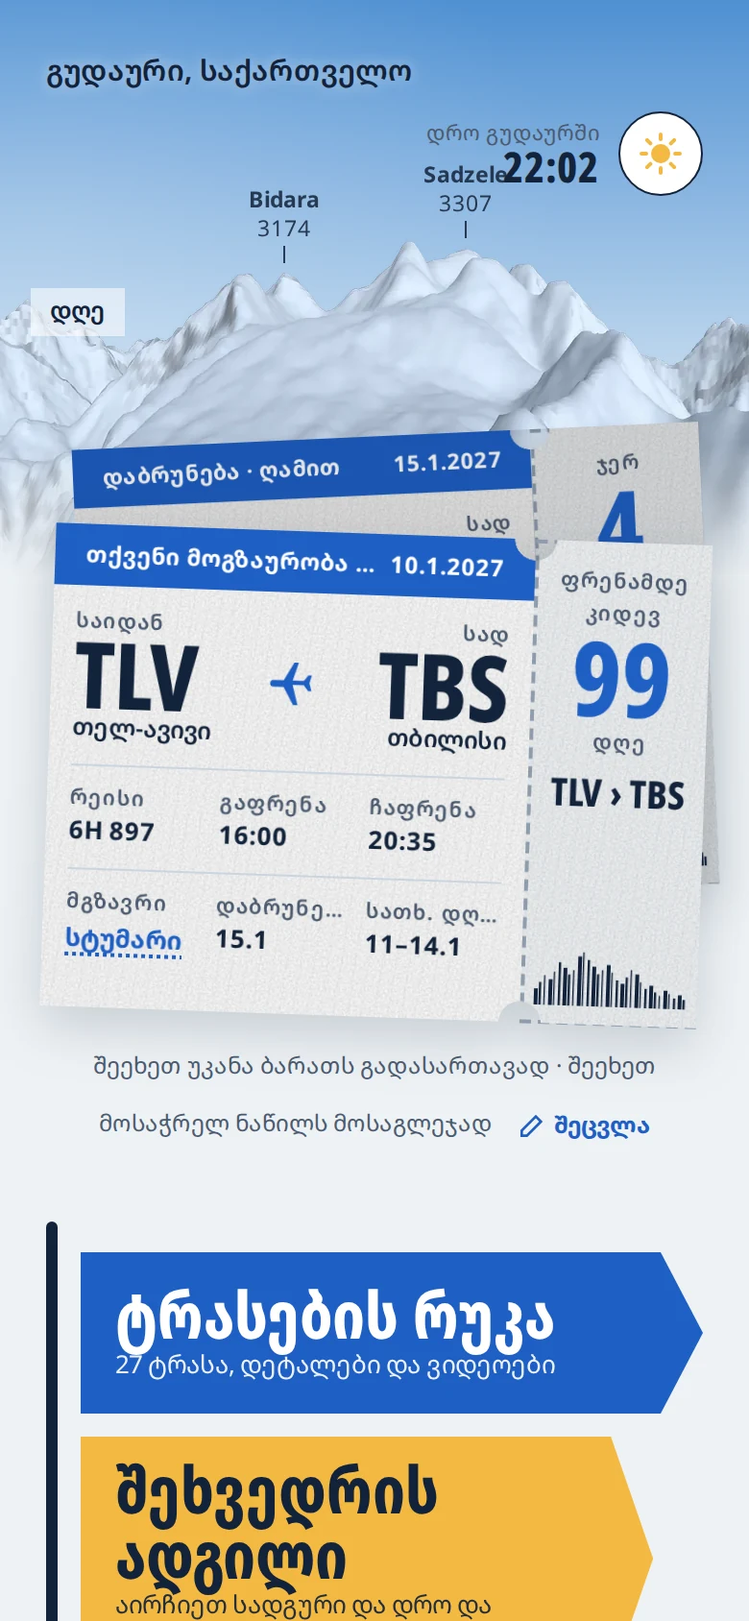
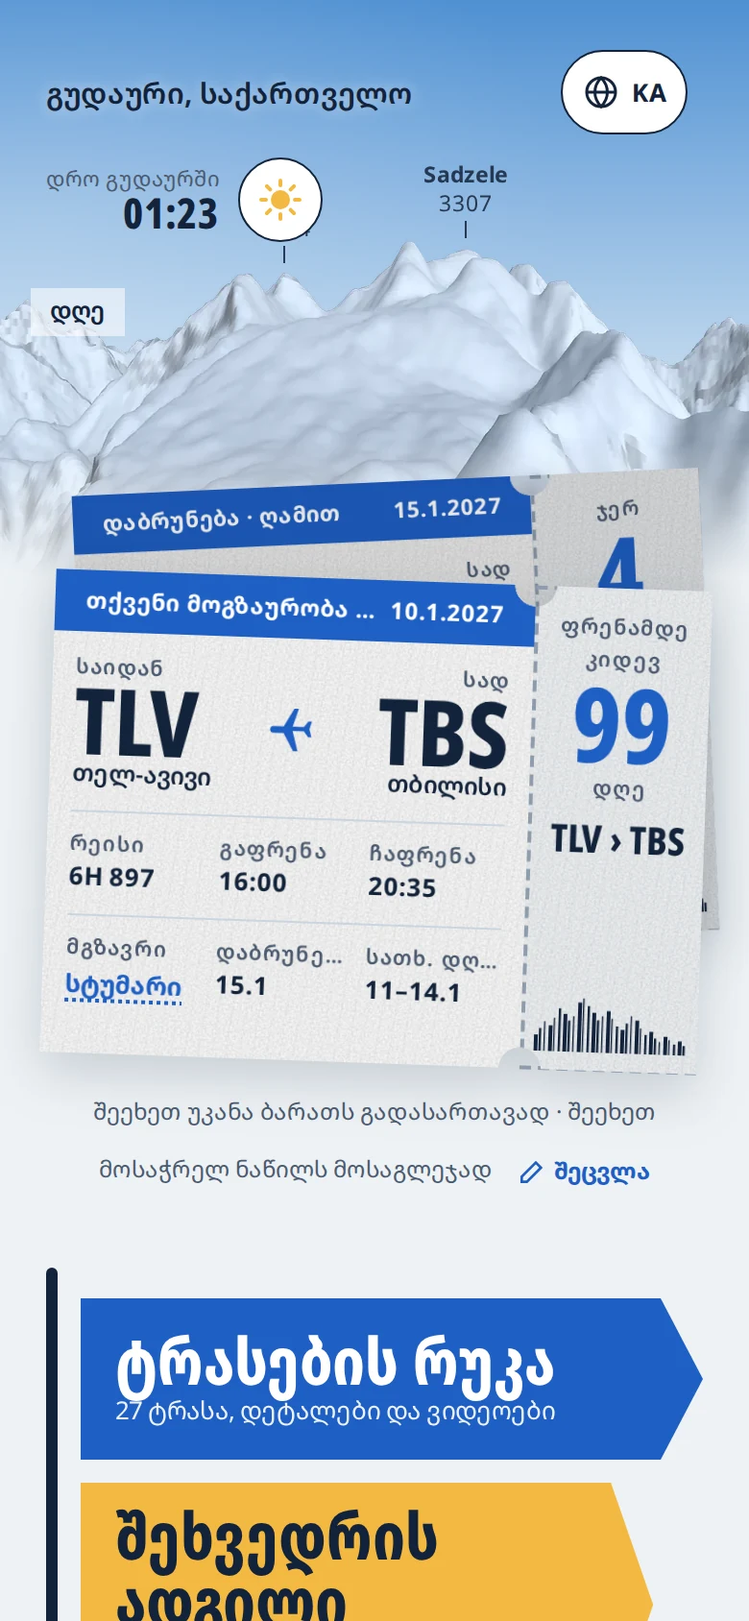
Canvas round 16: the pairs again against main with the language button, and three pairs for it
The 'before' side is now main with the language button (decision 48), so every pair
compares like with like; only the 28 shots that changed were uploaded again. New row:
the language button inside round 16 (the home row in Georgian on a phone, a page header
in Georgian, the back arrow in English); the top bar pair for guests without a trip was
dropped, since the language session fixed that on main too. Decide card item; STATUS.

Claude-Session: https://claude.ai/code/session_011G2wvmFpKYzoT1gYcd9vmk

diff --git a/design/canvas/project/R16-0-Decide.dc.html b/design/canvas/project/R16-0-Decide.dc.html
@@ -12,9 +12,9 @@
 body{margin:0;background:#EEF2F5}
 </style>
 </helmet>
-<div style="width: 560px; height: 1560px; box-sizing: border-box; padding: 28px; background: #FFFFFF; color: #13233A; font-family: 'IBM Plex Sans Hebrew', system-ui, sans-serif; direction: rtl; border-top: 8px solid #1F5FC4"><h1 style="margin: 0; font-family: Karantina, 'Arial Narrow', sans-serif; font-size: 52px; line-height: 1">מה לאשר בסבב 16</h1><p style="margin: 8px 0 16px; font-size: 14.5px; line-height: 1.55; color: #4B5A6F">ביקשת לעבור על כל העיצוב באתר, עמוד אחרי עמוד ורכיב אחרי רכיב, ולתקן. עברתי על כל העמודים והמצבים, בטלפון ובמחשב, ביום ובלילה ובארבע השפות, ונמצאו כ-60 בעיות. כאן 50 זוגות של לפני ואחרי מהאתר האמיתי, מסודרים לפי עמוד. הכל בענף, ונכנס לאתר רק אחרי שתאשר. בתוך השפה העיצובית הקיימת, בלי שינוי בכיוון.</p><ol style="margin: 0; padding: 0; list-style: none"><li style="display: flex; flex-direction: column; gap: 2px; padding: 10px 0; border-top: 1px solid #CBD5DF"><b style="font-size: 16px">1. השלג</b><span style="font-size: 14px; line-height: 1.55; color: #4B5A6F">רכיב אחד לכל השלטים והכרטיסים באתר ובדף הפרטיות (שלט "ההר עוד ישן", שלטי הרכבלים, המשחקים, הכרטיסים של הכניסה והקבוצה). השלג מצויר לפי הרוחב האמיתי של כל שלט, יושב על הקצה ומכסה את המסגרת, נגמר איפה שהחץ מתחיל ומתהפך עם השפה, ובלילה באור ירח. הצורה והצבעים כמו בשלט המושלג שאישרת בסבב 3 (S3).</span></li><li style="display: flex; flex-direction: column; gap: 2px; padding: 10px 0; border-top: 1px solid #CBD5DF"><b style="font-size: 16px">2. לוח העונה</b><span style="font-size: 14px; line-height: 1.55; color: #4B5A6F">הלוח בדף הבית אמר תמיד "ההר עוד ישן... העונה נפתחת בדרך כלל בדצמבר", גם בינואר וגם כשהרכבלים פתוחים. עכשיו הוא כמו השלטים והפס במפה (S1, S3): עד דצמבר ההר ישן, בעונה בלי דיווח "אין מידע עדכני", ועם דיווח עדכני השלג יורד, הפס למעלה ירוק ונכתב כמה רכבלים פתוחים ומתי עודכן. כך זה גם באפליקציה (סשן האנדרואיד, 3.10.2026), כדי ששתיהן ייראו אותו דבר. הלוח עדיין מופיע רק למי שעוד אין לו טיול (החלטה 46).</span></li><li style="display: flex; flex-direction: column; gap: 2px; padding: 10px 0; border-top: 1px solid #CBD5DF"><b style="font-size: 16px">3. הלילה</b><span style="font-size: 14px; line-height: 1.55; color: #4B5A6F">בלילה הכחול, הירוק והאדום בהירים, ולכן הטקסט עליהם כהה, כמו בשלטים במפה. עד היום היה שם לבן, שלא קריא (ניגודיות 2.8, ובפסים על הדיו 1.15). בסריקה של כל העמודים, 35 ממצאי ניגודיות ירדו ל-6: שני "???" בכרטיס הריק (קישוט), ושלושה גבוליים (4.4 במקום 4.5) בירוק ובאדום של המסלולים.</span></li><li style="display: flex; flex-direction: column; gap: 2px; padding: 10px 0; border-top: 1px solid #CBD5DF"><b style="font-size: 16px">4. בלי גלילה הצידה</b><span style="font-size: 14px; line-height: 1.55; color: #4B5A6F">נבדק בשמונה רוחבים (320 עד 1024) ובארבע השפות. הסרגל העליון במחשב צר מוותר על דברים לפי הסדר; בדף הפרטיות, בטופס הטיול ובכותרות בגאורגית הכל נכנס.</span></li><li style="display: flex; flex-direction: column; gap: 2px; padding: 10px 0; border-top: 1px solid #CBD5DF"><b style="font-size: 16px">5. נקודת המפגש</b><span style="font-size: 14px; line-height: 1.55; color: #4B5A6F">"איך מגיעים" נקרא עכשיו בכיוון הדף, מהמקום שלך אל הנקודה הצהובה, עם החצים של השלטים (היום הוא נקרא משמאל לימין גם בעברית). ימי השבוע בגאורגית מגיעים מהאתר עצמו, כי הדפדפן לא מכיר אותם ונפל לעברית.</span></li><li style="display: flex; flex-direction: column; gap: 2px; padding: 10px 0; border-top: 1px solid #CBD5DF"><b style="font-size: 16px">6. נגישות</b><span style="font-size: 14px; line-height: 1.55; color: #4B5A6F">יעדי מגע של 44 בכל מקום שנמצא קטן מזה. לשוניות הקבוצה עובדות עם המקלדת ועם קורא מסך, השלט Kobi Pass נגיש מהמקלדת, ולכפתור מחיקת מפגש יש שם נכון.</span></li><li style="display: flex; flex-direction: column; gap: 2px; padding: 10px 0; border-top: 1px solid #CBD5DF"><b style="font-size: 16px">7. אפל</b><span style="font-size: 14px; line-height: 1.55; color: #4B5A6F">הכפתור של אפל אומר "בקרוב" (מקווקו, כמו כל מה שעוד לא קיים באתר), עד שיהיה חשבון מפתח של אפל.</span></li><li style="display: flex; flex-direction: column; gap: 2px; padding: 10px 0; border-top: 1px solid #CBD5DF"><b style="font-size: 16px">8. טקסטים</b><span style="font-size: 14px; line-height: 1.55; color: #4B5A6F">שישה שכבר לא נכונים או מבלבלים, בארבע השפות:<br><b>בנקודת המפגש, מתחת לשיתוף:</b> <s>בלי מסד נתונים ובלי הרשמה: המקום, היום והשעה נמצאים בתוך הקישור עצמו.</s> ← הקישור עובד בלי הרשמה: המקום, היום והשעה נמצאים בתוך הקישור עצמו.<br><b>כרטיס המפגש, בכותרת:</b> <s>החבר׳ה · גודאורי 2027</s> ← גודאורי 2027<br><b>עמוד המשחקים:</b> <s>השיאים נשמרים רק בטלפון שלכם</s> ← השיאים נשמרים בדפדפן, ומי שבקבוצה רואה אותם גם בטבלת הקבוצה<br><b>הגדרות, איפוס השיאים:</b> <s>השיאים נשמרים רק בטלפון הזה</s> ← השיאים שנשמרו בדפדפן הזה<br><b>קבוצה, שיאים ריקים:</b> <s>השיאים מגיעים מהמשחקים באפליקציה.</s> ← השיאים מגיעים מהמשחקים באתר ובאפליקציה.<br><b>הטיול שלך, ימי סקי ידניים:</b> <s>יום ראשון / יום אחרון (נקרא כמו היום בשבוע)</s> ← יום סקי ראשון / יום סקי אחרון, כמו באפליקציה</span></li><li style="display: flex; flex-direction: column; gap: 2px; padding: 10px 0; border-top: 1px solid #CBD5DF"><b style="font-size: 16px">9. לא בסבב הזה</b><span style="font-size: 14px; line-height: 1.55; color: #4B5A6F">פערי המראה בין האתר לאפליקציה (צבעי הכפתורים בלילה, המתג, הלשוניות, כרטיס ההזמנה, צורת השלג ועוד): החלטה אחת לשתי הפלטפורמות, אולי יחד עם השפה העיצובית החדשה. הסמל בלשונית הדפדפן הוא עדיין השלט הכחול הישן. רשום ב-ROADMAP.</span></li></ol></div>
+<div style="width: 560px; height: 1720px; box-sizing: border-box; padding: 28px; background: #FFFFFF; color: #13233A; font-family: 'IBM Plex Sans Hebrew', system-ui, sans-serif; direction: rtl; border-top: 8px solid #1F5FC4"><h1 style="margin: 0; font-family: Karantina, 'Arial Narrow', sans-serif; font-size: 52px; line-height: 1">מה לאשר בסבב 16</h1><p style="margin: 8px 0 16px; font-size: 14.5px; line-height: 1.55; color: #4B5A6F">ביקשת לעבור על כל העיצוב באתר, עמוד אחרי עמוד ורכיב אחרי רכיב, ולתקן. עברתי על כל העמודים והמצבים, בטלפון ובמחשב, ביום ובלילה ובארבע השפות, ונמצאו כ-60 בעיות. כאן 53 זוגות של לפני ואחרי מהאתר האמיתי, מסודרים לפי עמוד. הכל בענף, ונכנס לאתר רק אחרי שתאשר. בתוך השפה העיצובית הקיימת, בלי שינוי בכיוון.</p><ol style="margin: 0; padding: 0; list-style: none"><li style="display: flex; flex-direction: column; gap: 2px; padding: 10px 0; border-top: 1px solid #CBD5DF"><b style="font-size: 16px">1. השלג</b><span style="font-size: 14px; line-height: 1.55; color: #4B5A6F">רכיב אחד לכל השלטים והכרטיסים באתר ובדף הפרטיות (שלט "ההר עוד ישן", שלטי הרכבלים, המשחקים, הכרטיסים של הכניסה והקבוצה). השלג מצויר לפי הרוחב האמיתי של כל שלט, יושב על הקצה ומכסה את המסגרת, נגמר איפה שהחץ מתחיל ומתהפך עם השפה, ובלילה באור ירח. הצורה והצבעים כמו בשלט המושלג שאישרת בסבב 3 (S3).</span></li><li style="display: flex; flex-direction: column; gap: 2px; padding: 10px 0; border-top: 1px solid #CBD5DF"><b style="font-size: 16px">2. לוח העונה</b><span style="font-size: 14px; line-height: 1.55; color: #4B5A6F">הלוח בדף הבית אמר תמיד "ההר עוד ישן... העונה נפתחת בדרך כלל בדצמבר", גם בינואר וגם כשהרכבלים פתוחים. עכשיו הוא כמו השלטים והפס במפה (S1, S3): עד דצמבר ההר ישן, בעונה בלי דיווח "אין מידע עדכני", ועם דיווח עדכני השלג יורד, הפס למעלה ירוק ונכתב כמה רכבלים פתוחים ומתי עודכן. כך זה גם באפליקציה (סשן האנדרואיד, 3.10.2026), כדי ששתיהן ייראו אותו דבר. הלוח עדיין מופיע רק למי שעוד אין לו טיול (החלטה 46).</span></li><li style="display: flex; flex-direction: column; gap: 2px; padding: 10px 0; border-top: 1px solid #CBD5DF"><b style="font-size: 16px">3. כפתור השפה</b><span style="font-size: 14px; line-height: 1.55; color: #4B5A6F">הכפתור שנכנס היום לענף הראשי (החלטה 48) משתלב בסבב 16. בסרגל העליון הוא לא מוסתר אף פעם כשהסרגל מוותר על דברים, והכפתורים נשארים יחד בקצה. בטלפון, כשכותרת לא נכנסת במילים שלמות, הכפתור מוותר על הגלובוס; בדף הבית אחר כך השעון מוותר על הכיתוב, ובשאר העמודים הכותרת עוברת לשורה משלה. ובדרך: החץ חזרה בעמודי החשבון, הקבוצה והטיול הצביע קדימה באנגלית, ברוסית ובגאורגית.</span></li><li style="display: flex; flex-direction: column; gap: 2px; padding: 10px 0; border-top: 1px solid #CBD5DF"><b style="font-size: 16px">4. הלילה</b><span style="font-size: 14px; line-height: 1.55; color: #4B5A6F">בלילה הכחול, הירוק והאדום בהירים, ולכן הטקסט עליהם כהה, כמו בשלטים במפה. עד היום היה שם לבן, שלא קריא (ניגודיות 2.8, ובפסים על הדיו 1.15). בסריקה של כל העמודים, 35 ממצאי ניגודיות ירדו ל-6: שני "???" בכרטיס הריק (קישוט), ושלושה גבוליים (4.4 במקום 4.5) בירוק ובאדום של המסלולים.</span></li><li style="display: flex; flex-direction: column; gap: 2px; padding: 10px 0; border-top: 1px solid #CBD5DF"><b style="font-size: 16px">5. בלי גלילה הצידה</b><span style="font-size: 14px; line-height: 1.55; color: #4B5A6F">נבדק בשמונה רוחבים (320 עד 1024) ובארבע השפות. הסרגל העליון במחשב צר מוותר על דברים לפי הסדר; בדף הפרטיות, בטופס הטיול ובכותרות בגאורגית הכל נכנס.</span></li><li style="display: flex; flex-direction: column; gap: 2px; padding: 10px 0; border-top: 1px solid #CBD5DF"><b style="font-size: 16px">6. נקודת המפגש</b><span style="font-size: 14px; line-height: 1.55; color: #4B5A6F">"איך מגיעים" נקרא עכשיו בכיוון הדף, מהמקום שלך אל הנקודה הצהובה, עם החצים של השלטים (היום הוא נקרא משמאל לימין גם בעברית). ימי השבוע בגאורגית מגיעים מהאתר עצמו, כי הדפדפן לא מכיר אותם ונפל לעברית.</span></li><li style="display: flex; flex-direction: column; gap: 2px; padding: 10px 0; border-top: 1px solid #CBD5DF"><b style="font-size: 16px">7. נגישות</b><span style="font-size: 14px; line-height: 1.55; color: #4B5A6F">יעדי מגע של 44 בכל מקום שנמצא קטן מזה. לשוניות הקבוצה עובדות עם המקלדת ועם קורא מסך, השלט Kobi Pass נגיש מהמקלדת, ולכפתור מחיקת מפגש יש שם נכון.</span></li><li style="display: flex; flex-direction: column; gap: 2px; padding: 10px 0; border-top: 1px solid #CBD5DF"><b style="font-size: 16px">8. אפל</b><span style="font-size: 14px; line-height: 1.55; color: #4B5A6F">הכפתור של אפל אומר "בקרוב" (מקווקו, כמו כל מה שעוד לא קיים באתר), עד שיהיה חשבון מפתח של אפל.</span></li><li style="display: flex; flex-direction: column; gap: 2px; padding: 10px 0; border-top: 1px solid #CBD5DF"><b style="font-size: 16px">9. טקסטים</b><span style="font-size: 14px; line-height: 1.55; color: #4B5A6F">שישה שכבר לא נכונים או מבלבלים, בארבע השפות:<br><b>בנקודת המפגש, מתחת לשיתוף:</b> <s>בלי מסד נתונים ובלי הרשמה: המקום, היום והשעה נמצאים בתוך הקישור עצמו.</s> ← הקישור עובד בלי הרשמה: המקום, היום והשעה נמצאים בתוך הקישור עצמו.<br><b>כרטיס המפגש, בכותרת:</b> <s>החבר׳ה · גודאורי 2027</s> ← גודאורי 2027<br><b>עמוד המשחקים:</b> <s>השיאים נשמרים רק בטלפון שלכם</s> ← השיאים נשמרים בדפדפן, ומי שבקבוצה רואה אותם גם בטבלת הקבוצה<br><b>הגדרות, איפוס השיאים:</b> <s>השיאים נשמרים רק בטלפון הזה</s> ← השיאים שנשמרו בדפדפן הזה<br><b>קבוצה, שיאים ריקים:</b> <s>השיאים מגיעים מהמשחקים באפליקציה.</s> ← השיאים מגיעים מהמשחקים באתר ובאפליקציה.<br><b>הטיול שלך, ימי סקי ידניים:</b> <s>יום ראשון / יום אחרון (נקרא כמו היום בשבוע)</s> ← יום סקי ראשון / יום סקי אחרון, כמו באפליקציה</span></li><li style="display: flex; flex-direction: column; gap: 2px; padding: 10px 0; border-top: 1px solid #CBD5DF"><b style="font-size: 16px">10. לא בסבב הזה</b><span style="font-size: 14px; line-height: 1.55; color: #4B5A6F">פערי המראה בין האתר לאפליקציה (צבעי הכפתורים בלילה, המתג, הלשוניות, כרטיס ההזמנה, צורת השלג ועוד): החלטה אחת לשתי הפלטפורמות, אולי יחד עם השפה העיצובית החדשה. הסמל בלשונית הדפדפן הוא עדיין השלט הכחול הישן. רשום ב-ROADMAP.</span></li></ol></div>
 </x-dc>
-<script type="text/x-dc" data-dc-script data-props='{"$preview":{"width":560,"height":1560}}'>
+<script type="text/x-dc" data-dc-script data-props='{"$preview":{"width":560,"height":1720}}'>
 class Component extends DCLogic {
   renderVals() { return {}; }
 }

diff --git a/design/canvas/project/R16-top-ka.dc.html b/design/canvas/project/R16-top-ka.dc.html
@@ -12,7 +12,7 @@
 body{margin:0;background:#EEF2F5}
 </style>
 </helmet>
-<div style="width: 840px; height: 324px; box-sizing: border-box; padding: 20px; display: flex; flex-direction: column; gap: 12px; background: #FFFFFF; color: #13233A; font-family: 'IBM Plex Sans Hebrew', system-ui, sans-serif; direction: rtl"><div style="display: flex; flex-direction: column; gap: 4px"><b style="font-family: Karantina, 'Arial Narrow', sans-serif; font-size: 34px; line-height: 1">הסרגל העליון בגאורגית, טאבלט (800)</b><span style="font-size: 14px; line-height: 1.45; color: #4B5A6F">השלטים נשברים לשתי שורות, ובסוף שם האתר יורד; כפתור החשבון לא נמעך</span></div><div style="display: flex; flex-direction: column; gap: 24px"><div style="display: flex; flex-direction: column; gap: 6px; width: 800px"><span style="align-self: flex-start; padding: 2px 10px; background: #4B5A6F; color: #FFFFFF; font-size: 13px; font-weight: 700">לפני</span><img src="/_blob/c83083dde50b777ecb47c7f13b63cfb8" alt="הסרגל העליון בגאורגית, טאבלט (800): לפני" style="display: block; width: 800px; height: 64px; box-shadow: 0 0 0 1px #CBD5DF"></div><div style="display: flex; flex-direction: column; gap: 6px; width: 800px"><span style="align-self: flex-start; padding: 2px 10px; background: #1B8A4C; color: #FFFFFF; font-size: 13px; font-weight: 700">אחרי</span><img src="/_blob/c1fe1bdb3f9b8ec3a6788cba05ab656b" alt="הסרגל העליון בגאורגית, טאבלט (800): אחרי" style="display: block; width: 800px; height: 64px; box-shadow: 0 0 0 1px #CBD5DF"></div></div></div>
+<div style="width: 840px; height: 324px; box-sizing: border-box; padding: 20px; display: flex; flex-direction: column; gap: 12px; background: #FFFFFF; color: #13233A; font-family: 'IBM Plex Sans Hebrew', system-ui, sans-serif; direction: rtl"><div style="display: flex; flex-direction: column; gap: 4px"><b style="font-family: Karantina, 'Arial Narrow', sans-serif; font-size: 34px; line-height: 1">הסרגל העליון בגאורגית, טאבלט (800)</b><span style="font-size: 14px; line-height: 1.45; color: #4B5A6F">השלטים נשברים לשתי שורות, ובסוף שם האתר יורד; כפתור החשבון לא נמעך</span></div><div style="display: flex; flex-direction: column; gap: 24px"><div style="display: flex; flex-direction: column; gap: 6px; width: 800px"><span style="align-self: flex-start; padding: 2px 10px; background: #4B5A6F; color: #FFFFFF; font-size: 13px; font-weight: 700">לפני</span><img src="/_blob/c83083dde50b777ecb47c7f13b63cfb8" alt="הסרגל העליון בגאורגית, טאבלט (800): לפני" style="display: block; width: 800px; height: 64px; box-shadow: 0 0 0 1px #CBD5DF"></div><div style="display: flex; flex-direction: column; gap: 6px; width: 800px"><span style="align-self: flex-start; padding: 2px 10px; background: #1B8A4C; color: #FFFFFF; font-size: 13px; font-weight: 700">אחרי</span><img src="/_blob/84dcd5815e06b417266b95dfbdd5421b" alt="הסרגל העליון בגאורגית, טאבלט (800): אחרי" style="display: block; width: 800px; height: 64px; box-shadow: 0 0 0 1px #CBD5DF"></div></div></div>
 </x-dc>
 <script type="text/x-dc" data-dc-script data-props='{"$preview":{"width":840,"height":324}}'>
 class Component extends DCLogic {

diff --git a/design/canvas/project/R16-top-current.dc.html b/design/canvas/project/R16-top-current.dc.html
@@ -12,7 +12,7 @@
 body{margin:0;background:#EEF2F5}
 </style>
 </helmet>
-<div style="width: 1320px; height: 324px; box-sizing: border-box; padding: 20px; display: flex; flex-direction: column; gap: 12px; background: #FFFFFF; color: #13233A; font-family: 'IBM Plex Sans Hebrew', system-ui, sans-serif; direction: rtl"><div style="display: flex; flex-direction: column; gap: 4px"><b style="font-family: Karantina, 'Arial Narrow', sans-serif; font-size: 34px; line-height: 1">השלט &quot;בית&quot; בעמודי החשבון</b><span style="font-size: 14px; line-height: 1.45; color: #4B5A6F">בדף הטיול, הכניסה, החשבון והקבוצה &quot;בית&quot; כבר לא מסומן כעמוד הנוכחי</span></div><div style="display: flex; flex-direction: column; gap: 24px"><div style="display: flex; flex-direction: column; gap: 6px; width: 1280px"><span style="align-self: flex-start; padding: 2px 10px; background: #4B5A6F; color: #FFFFFF; font-size: 13px; font-weight: 700">לפני</span><img src="/_blob/2a79b4360759b949286d0df18a9753fc" alt="השלט &quot;בית&quot; בעמודי החשבון: לפני" style="display: block; width: 1280px; height: 64px; box-shadow: 0 0 0 1px #CBD5DF"></div><div style="display: flex; flex-direction: column; gap: 6px; width: 1280px"><span style="align-self: flex-start; padding: 2px 10px; background: #1B8A4C; color: #FFFFFF; font-size: 13px; font-weight: 700">אחרי</span><img src="/_blob/efb944366e7641e3b237047d2d8bd0da" alt="השלט &quot;בית&quot; בעמודי החשבון: אחרי" style="display: block; width: 1280px; height: 64px; box-shadow: 0 0 0 1px #CBD5DF"></div></div></div>
+<div style="width: 1320px; height: 324px; box-sizing: border-box; padding: 20px; display: flex; flex-direction: column; gap: 12px; background: #FFFFFF; color: #13233A; font-family: 'IBM Plex Sans Hebrew', system-ui, sans-serif; direction: rtl"><div style="display: flex; flex-direction: column; gap: 4px"><b style="font-family: Karantina, 'Arial Narrow', sans-serif; font-size: 34px; line-height: 1">השלט &quot;בית&quot; בעמודי החשבון</b><span style="font-size: 14px; line-height: 1.45; color: #4B5A6F">בדף הטיול, הכניסה, החשבון והקבוצה &quot;בית&quot; כבר לא מסומן כעמוד הנוכחי</span></div><div style="display: flex; flex-direction: column; gap: 24px"><div style="display: flex; flex-direction: column; gap: 6px; width: 1280px"><span style="align-self: flex-start; padding: 2px 10px; background: #4B5A6F; color: #FFFFFF; font-size: 13px; font-weight: 700">לפני</span><img src="/_blob/00480da3d743f1e231956824fb92b69d" alt="השלט &quot;בית&quot; בעמודי החשבון: לפני" style="display: block; width: 1280px; height: 64px; box-shadow: 0 0 0 1px #CBD5DF"></div><div style="display: flex; flex-direction: column; gap: 6px; width: 1280px"><span style="align-self: flex-start; padding: 2px 10px; background: #1B8A4C; color: #FFFFFF; font-size: 13px; font-weight: 700">אחרי</span><img src="/_blob/8d8f05e33bf471ddc3631a6d914fa460" alt="השלט &quot;בית&quot; בעמודי החשבון: אחרי" style="display: block; width: 1280px; height: 64px; box-shadow: 0 0 0 1px #CBD5DF"></div></div></div>
 </x-dc>
 <script type="text/x-dc" data-dc-script data-props='{"$preview":{"width":1320,"height":324}}'>
 class Component extends DCLogic {

diff --git a/design/canvas/project/R16-top-ru.dc.html b/design/canvas/project/R16-top-ru.dc.html
@@ -12,7 +12,7 @@
 body{margin:0;background:#EEF2F5}
 </style>
 </helmet>
-<div style="width: 940px; height: 324px; box-sizing: border-box; padding: 20px; display: flex; flex-direction: column; gap: 12px; background: #FFFFFF; color: #13233A; font-family: 'IBM Plex Sans Hebrew', system-ui, sans-serif; direction: rtl"><div style="display: flex; flex-direction: column; gap: 4px"><b style="font-family: Karantina, 'Arial Narrow', sans-serif; font-size: 34px; line-height: 1">הסרגל העליון ברוסית, מחשב צר (900)</b><span style="font-size: 14px; line-height: 1.45; color: #4B5A6F">הסרגל מוותר על מילים לפי הסדר עד שהוא נכנס, בלי גלילה הצידה</span></div><div style="display: flex; flex-direction: column; gap: 24px"><div style="display: flex; flex-direction: column; gap: 6px; width: 900px"><span style="align-self: flex-start; padding: 2px 10px; background: #4B5A6F; color: #FFFFFF; font-size: 13px; font-weight: 700">לפני</span><img src="/_blob/0a426ba8d64d3315f3414b2664847614" alt="הסרגל העליון ברוסית, מחשב צר (900): לפני" style="display: block; width: 900px; height: 64px; box-shadow: 0 0 0 1px #CBD5DF"></div><div style="display: flex; flex-direction: column; gap: 6px; width: 900px"><span style="align-self: flex-start; padding: 2px 10px; background: #1B8A4C; color: #FFFFFF; font-size: 13px; font-weight: 700">אחרי</span><img src="/_blob/f2652c7edae7a59a204f37b0db294cd6" alt="הסרגל העליון ברוסית, מחשב צר (900): אחרי" style="display: block; width: 900px; height: 64px; box-shadow: 0 0 0 1px #CBD5DF"></div></div></div>
+<div style="width: 940px; height: 324px; box-sizing: border-box; padding: 20px; display: flex; flex-direction: column; gap: 12px; background: #FFFFFF; color: #13233A; font-family: 'IBM Plex Sans Hebrew', system-ui, sans-serif; direction: rtl"><div style="display: flex; flex-direction: column; gap: 4px"><b style="font-family: Karantina, 'Arial Narrow', sans-serif; font-size: 34px; line-height: 1">הסרגל העליון ברוסית, מחשב צר (900)</b><span style="font-size: 14px; line-height: 1.45; color: #4B5A6F">הסרגל מוותר על מילים לפי הסדר עד שהוא נכנס, בלי גלילה הצידה</span></div><div style="display: flex; flex-direction: column; gap: 24px"><div style="display: flex; flex-direction: column; gap: 6px; width: 900px"><span style="align-self: flex-start; padding: 2px 10px; background: #4B5A6F; color: #FFFFFF; font-size: 13px; font-weight: 700">לפני</span><img src="/_blob/658381c4d4b4ae372388290bdf2921b3" alt="הסרגל העליון ברוסית, מחשב צר (900): לפני" style="display: block; width: 900px; height: 64px; box-shadow: 0 0 0 1px #CBD5DF"></div><div style="display: flex; flex-direction: column; gap: 6px; width: 900px"><span style="align-self: flex-start; padding: 2px 10px; background: #1B8A4C; color: #FFFFFF; font-size: 13px; font-weight: 700">אחרי</span><img src="/_blob/4d268b9c8b7b83eeb82291324732e053" alt="הסרגל העליון ברוסית, מחשב צר (900): אחרי" style="display: block; width: 900px; height: 64px; box-shadow: 0 0 0 1px #CBD5DF"></div></div></div>
 </x-dc>
 <script type="text/x-dc" data-dc-script data-props='{"$preview":{"width":940,"height":324}}'>
 class Component extends DCLogic {

diff --git a/design/canvas/project/R16-meet-ka.dc.html b/design/canvas/project/R16-meet-ka.dc.html
@@ -12,7 +12,7 @@
 body{margin:0;background:#EEF2F5}
 </style>
 </helmet>
-<div style="width: 844px; height: 792px; box-sizing: border-box; padding: 20px; display: flex; flex-direction: column; gap: 12px; background: #FFFFFF; color: #13233A; font-family: 'IBM Plex Sans Hebrew', system-ui, sans-serif; direction: rtl"><div style="display: flex; flex-direction: column; gap: 4px"><b style="font-family: Karantina, 'Arial Narrow', sans-serif; font-size: 34px; line-height: 1">נקודת המפגש בגאורגית</b><span style="font-size: 14px; line-height: 1.45; color: #4B5A6F">השלטים הקבועים לא נחתכים (&quot;Goodaura 16:3&quot;), וימי השבוע בגאורגית ולא בעברית</span></div><div style="display: flex; gap: 24px; align-items: flex-start"><div style="display: flex; flex-direction: column; gap: 6px; width: 390px"><span style="align-self: flex-start; padding: 2px 10px; background: #1B8A4C; color: #FFFFFF; font-size: 13px; font-weight: 700">אחרי</span><img src="/_blob/a58d20f65ccb31c17b1807db70d0e96c" alt="נקודת המפגש בגאורגית: אחרי" style="display: block; width: 390px; height: 648px; box-shadow: 0 0 0 1px #CBD5DF"></div><div style="display: flex; flex-direction: column; gap: 6px; width: 390px"><span style="align-self: flex-start; padding: 2px 10px; background: #4B5A6F; color: #FFFFFF; font-size: 13px; font-weight: 700">לפני</span><img src="/_blob/da60c8cd53a6747877d3caf8054cf521" alt="נקודת המפגש בגאורגית: לפני" style="display: block; width: 390px; height: 648px; box-shadow: 0 0 0 1px #CBD5DF"></div></div></div>
+<div style="width: 844px; height: 792px; box-sizing: border-box; padding: 20px; display: flex; flex-direction: column; gap: 12px; background: #FFFFFF; color: #13233A; font-family: 'IBM Plex Sans Hebrew', system-ui, sans-serif; direction: rtl"><div style="display: flex; flex-direction: column; gap: 4px"><b style="font-family: Karantina, 'Arial Narrow', sans-serif; font-size: 34px; line-height: 1">נקודת המפגש בגאורגית</b><span style="font-size: 14px; line-height: 1.45; color: #4B5A6F">השלטים הקבועים לא נחתכים (&quot;Goodaura 16:3&quot;), וימי השבוע בגאורגית ולא בעברית</span></div><div style="display: flex; gap: 24px; align-items: flex-start"><div style="display: flex; flex-direction: column; gap: 6px; width: 390px"><span style="align-self: flex-start; padding: 2px 10px; background: #1B8A4C; color: #FFFFFF; font-size: 13px; font-weight: 700">אחרי</span><img src="/_blob/a58d20f65ccb31c17b1807db70d0e96c" alt="נקודת המפגש בגאורגית: אחרי" style="display: block; width: 390px; height: 648px; box-shadow: 0 0 0 1px #CBD5DF"></div><div style="display: flex; flex-direction: column; gap: 6px; width: 390px"><span style="align-self: flex-start; padding: 2px 10px; background: #4B5A6F; color: #FFFFFF; font-size: 13px; font-weight: 700">לפני</span><img src="/_blob/25d7a6b9392c194a609541c4fad69c5a" alt="נקודת המפגש בגאורגית: לפני" style="display: block; width: 390px; height: 648px; box-shadow: 0 0 0 1px #CBD5DF"></div></div></div>
 </x-dc>
 <script type="text/x-dc" data-dc-script data-props='{"$preview":{"width":844,"height":792}}'>
 class Component extends DCLogic {

diff --git a/design/canvas/project/R16-map-3d.dc.html b/design/canvas/project/R16-map-3d.dc.html
@@ -12,7 +12,7 @@
 body{margin:0;background:#EEF2F5}
 </style>
 </helmet>
-<div style="width: 900px; height: 596px; box-sizing: border-box; padding: 20px; display: flex; flex-direction: column; gap: 12px; background: #FFFFFF; color: #13233A; font-family: 'IBM Plex Sans Hebrew', system-ui, sans-serif; direction: rtl"><div style="display: flex; flex-direction: column; gap: 4px"><b style="font-family: Karantina, 'Arial Narrow', sans-serif; font-size: 34px; line-height: 1">מצב הרכבלים בתלת-ממד</b><span style="font-size: 14px; line-height: 1.45; color: #4B5A6F">הפס &quot;11 מתוך 12 רכבלים פתוחים&quot; מופיע גם מעל התלת-ממד (היה מוסתר מאחוריו)</span></div><div style="display: flex; flex-direction: column; gap: 24px"><div style="display: flex; flex-direction: column; gap: 6px; width: 860px"><span style="align-self: flex-start; padding: 2px 10px; background: #4B5A6F; color: #FFFFFF; font-size: 13px; font-weight: 700">לפני</span><img src="/_blob/ba0826703f06711596874f276e332758" alt="מצב הרכבלים בתלת-ממד: לפני" style="display: block; width: 860px; height: 200px; box-shadow: 0 0 0 1px #CBD5DF"></div><div style="display: flex; flex-direction: column; gap: 6px; width: 860px"><span style="align-self: flex-start; padding: 2px 10px; background: #1B8A4C; color: #FFFFFF; font-size: 13px; font-weight: 700">אחרי</span><img src="/_blob/b06a6918e5f37583794c69935395832f" alt="מצב הרכבלים בתלת-ממד: אחרי" style="display: block; width: 860px; height: 200px; box-shadow: 0 0 0 1px #CBD5DF"></div></div></div>
+<div style="width: 900px; height: 596px; box-sizing: border-box; padding: 20px; display: flex; flex-direction: column; gap: 12px; background: #FFFFFF; color: #13233A; font-family: 'IBM Plex Sans Hebrew', system-ui, sans-serif; direction: rtl"><div style="display: flex; flex-direction: column; gap: 4px"><b style="font-family: Karantina, 'Arial Narrow', sans-serif; font-size: 34px; line-height: 1">מצב הרכבלים בתלת-ממד</b><span style="font-size: 14px; line-height: 1.45; color: #4B5A6F">הפס &quot;11 מתוך 12 רכבלים פתוחים&quot; מופיע גם מעל התלת-ממד (היה מוסתר מאחוריו)</span></div><div style="display: flex; flex-direction: column; gap: 24px"><div style="display: flex; flex-direction: column; gap: 6px; width: 860px"><span style="align-self: flex-start; padding: 2px 10px; background: #4B5A6F; color: #FFFFFF; font-size: 13px; font-weight: 700">לפני</span><img src="/_blob/398c16da889d98bb022f407ea14a3054" alt="מצב הרכבלים בתלת-ממד: לפני" style="display: block; width: 860px; height: 200px; box-shadow: 0 0 0 1px #CBD5DF"></div><div style="display: flex; flex-direction: column; gap: 6px; width: 860px"><span style="align-self: flex-start; padding: 2px 10px; background: #1B8A4C; color: #FFFFFF; font-size: 13px; font-weight: 700">אחרי</span><img src="/_blob/8641424cdb160d9e1e078bf4290b6138" alt="מצב הרכבלים בתלת-ממד: אחרי" style="display: block; width: 860px; height: 200px; box-shadow: 0 0 0 1px #CBD5DF"></div></div></div>
 </x-dc>
 <script type="text/x-dc" data-dc-script data-props='{"$preview":{"width":900,"height":596}}'>
 class Component extends DCLogic {

diff --git a/design/canvas/project/R16-narrow-trip-ka.dc.html b/design/canvas/project/R16-narrow-trip-ka.dc.html
@@ -12,7 +12,7 @@
 body{margin:0;background:#EEF2F5}
 </style>
 </helmet>
-<div style="width: 704px; height: 524px; box-sizing: border-box; padding: 20px; display: flex; flex-direction: column; gap: 12px; background: #FFFFFF; color: #13233A; font-family: 'IBM Plex Sans Hebrew', system-ui, sans-serif; direction: rtl"><div style="display: flex; flex-direction: column; gap: 4px"><b style="font-family: Karantina, 'Arial Narrow', sans-serif; font-size: 34px; line-height: 1">הטיול שלך בגאורגית (320)</b><span style="font-size: 14px; line-height: 1.45; color: #4B5A6F">הכותרת קטנה יותר, &quot;ביטול&quot; נשאר במסך, וההערה לא יוצאת מהמסך</span></div><div style="display: flex; gap: 24px; align-items: flex-start"><div style="display: flex; flex-direction: column; gap: 6px; width: 320px"><span style="align-self: flex-start; padding: 2px 10px; background: #1B8A4C; color: #FFFFFF; font-size: 13px; font-weight: 700">אחרי</span><img src="/_blob/bef32ef409daf1d4fdd3e23b9b27f518" alt="הטיול שלך בגאורגית (320): אחרי" style="display: block; width: 320px; height: 380px; box-shadow: 0 0 0 1px #CBD5DF"></div><div style="display: flex; flex-direction: column; gap: 6px; width: 320px"><span style="align-self: flex-start; padding: 2px 10px; background: #4B5A6F; color: #FFFFFF; font-size: 13px; font-weight: 700">לפני</span><img src="/_blob/a9e14a2319ffa7838b1a403348fe40f8" alt="הטיול שלך בגאורגית (320): לפני" style="display: block; width: 320px; height: 380px; box-shadow: 0 0 0 1px #CBD5DF"></div></div></div>
+<div style="width: 704px; height: 524px; box-sizing: border-box; padding: 20px; display: flex; flex-direction: column; gap: 12px; background: #FFFFFF; color: #13233A; font-family: 'IBM Plex Sans Hebrew', system-ui, sans-serif; direction: rtl"><div style="display: flex; flex-direction: column; gap: 4px"><b style="font-family: Karantina, 'Arial Narrow', sans-serif; font-size: 34px; line-height: 1">הטיול שלך בגאורגית (320)</b><span style="font-size: 14px; line-height: 1.45; color: #4B5A6F">הכותרת קטנה יותר, &quot;ביטול&quot; נשאר במסך, וההערה לא יוצאת מהמסך</span></div><div style="display: flex; gap: 24px; align-items: flex-start"><div style="display: flex; flex-direction: column; gap: 6px; width: 320px"><span style="align-self: flex-start; padding: 2px 10px; background: #1B8A4C; color: #FFFFFF; font-size: 13px; font-weight: 700">אחרי</span><img src="/_blob/7b3deeece4f3640370933beb3dc8aa12" alt="הטיול שלך בגאורגית (320): אחרי" style="display: block; width: 320px; height: 380px; box-shadow: 0 0 0 1px #CBD5DF"></div><div style="display: flex; flex-direction: column; gap: 6px; width: 320px"><span style="align-self: flex-start; padding: 2px 10px; background: #4B5A6F; color: #FFFFFF; font-size: 13px; font-weight: 700">לפני</span><img src="/_blob/a9e14a2319ffa7838b1a403348fe40f8" alt="הטיול שלך בגאורגית (320): לפני" style="display: block; width: 320px; height: 380px; box-shadow: 0 0 0 1px #CBD5DF"></div></div></div>
 </x-dc>
 <script type="text/x-dc" data-dc-script data-props='{"$preview":{"width":704,"height":524}}'>
 class Component extends DCLogic {

diff --git a/design/canvas/project/R16-top-he.dc.html b/design/canvas/project/R16-top-he.dc.html
@@ -12,7 +12,7 @@
 body{margin:0;background:#EEF2F5}
 </style>
 </helmet>
-<div style="width: 1320px; height: 324px; box-sizing: border-box; padding: 20px; display: flex; flex-direction: column; gap: 12px; background: #FFFFFF; color: #13233A; font-family: 'IBM Plex Sans Hebrew', system-ui, sans-serif; direction: rtl"><div style="display: flex; flex-direction: column; gap: 4px"><b style="font-family: Karantina, 'Arial Narrow', sans-serif; font-size: 34px; line-height: 1">הסרגל העליון בעברית</b><span style="font-size: 14px; line-height: 1.45; color: #4B5A6F">גלגל שיניים להגדרות, במקום הסמל שנראה כמו שמש ליד כפתור היום והלילה</span></div><div style="display: flex; flex-direction: column; gap: 24px"><div style="display: flex; flex-direction: column; gap: 6px; width: 1280px"><span style="align-self: flex-start; padding: 2px 10px; background: #4B5A6F; color: #FFFFFF; font-size: 13px; font-weight: 700">לפני</span><img src="/_blob/aa859a02e2768336b498783ac8e4e721" alt="הסרגל העליון בעברית: לפני" style="display: block; width: 1280px; height: 64px; box-shadow: 0 0 0 1px #CBD5DF"></div><div style="display: flex; flex-direction: column; gap: 6px; width: 1280px"><span style="align-self: flex-start; padding: 2px 10px; background: #1B8A4C; color: #FFFFFF; font-size: 13px; font-weight: 700">אחרי</span><img src="/_blob/bd3b492314216c581c2c508542f32b4f" alt="הסרגל העליון בעברית: אחרי" style="display: block; width: 1280px; height: 64px; box-shadow: 0 0 0 1px #CBD5DF"></div></div></div>
+<div style="width: 1320px; height: 324px; box-sizing: border-box; padding: 20px; display: flex; flex-direction: column; gap: 12px; background: #FFFFFF; color: #13233A; font-family: 'IBM Plex Sans Hebrew', system-ui, sans-serif; direction: rtl"><div style="display: flex; flex-direction: column; gap: 4px"><b style="font-family: Karantina, 'Arial Narrow', sans-serif; font-size: 34px; line-height: 1">הסרגל העליון בעברית</b><span style="font-size: 14px; line-height: 1.45; color: #4B5A6F">גלגל שיניים להגדרות, במקום הסמל שנראה כמו שמש ליד כפתור היום והלילה</span></div><div style="display: flex; flex-direction: column; gap: 24px"><div style="display: flex; flex-direction: column; gap: 6px; width: 1280px"><span style="align-self: flex-start; padding: 2px 10px; background: #4B5A6F; color: #FFFFFF; font-size: 13px; font-weight: 700">לפני</span><img src="/_blob/63d401f17cbecb6156002bba33b2286f" alt="הסרגל העליון בעברית: לפני" style="display: block; width: 1280px; height: 64px; box-shadow: 0 0 0 1px #CBD5DF"></div><div style="display: flex; flex-direction: column; gap: 6px; width: 1280px"><span style="align-self: flex-start; padding: 2px 10px; background: #1B8A4C; color: #FFFFFF; font-size: 13px; font-weight: 700">אחרי</span><img src="/_blob/b539ef07e634a8cd8eee43f794837953" alt="הסרגל העליון בעברית: אחרי" style="display: block; width: 1280px; height: 64px; box-shadow: 0 0 0 1px #CBD5DF"></div></div></div>
 </x-dc>
 <script type="text/x-dc" data-dc-script data-props='{"$preview":{"width":1320,"height":324}}'>
 class Component extends DCLogic {

diff --git a/design/canvas/project/R16-home-pass.dc.html b/design/canvas/project/R16-home-pass.dc.html
@@ -12,7 +12,7 @@
 body{margin:0;background:#EEF2F5}
 </style>
 </helmet>
-<div style="width: 780px; height: 506px; box-sizing: border-box; padding: 20px; display: flex; flex-direction: column; gap: 12px; background: #FFFFFF; color: #13233A; font-family: 'IBM Plex Sans Hebrew', system-ui, sans-serif; direction: rtl"><div style="display: flex; flex-direction: column; gap: 4px"><b style="font-family: Karantina, 'Arial Narrow', sans-serif; font-size: 34px; line-height: 1">כרטיס הטיסה</b><span style="font-size: 14px; line-height: 1.45; color: #4B5A6F">הערכים מיושרים לכותרות שלהם (&quot;6H 897&quot; לא נדבק ל-&quot;16:00&quot;), והברקוד של הכרטיס שמאחור לא מציץ</span></div><div style="display: flex; gap: 24px; align-items: flex-start"><div style="display: flex; flex-direction: column; gap: 6px; width: 358px"><span style="align-self: flex-start; padding: 2px 10px; background: #1B8A4C; color: #FFFFFF; font-size: 13px; font-weight: 700">אחרי</span><img src="/_blob/f80c454c37b11ab1444f6b0e41296c68" alt="כרטיס הטיסה: אחרי" style="display: block; width: 358px; height: 362px; box-shadow: 0 0 0 1px #CBD5DF"></div><div style="display: flex; flex-direction: column; gap: 6px; width: 358px"><span style="align-self: flex-start; padding: 2px 10px; background: #4B5A6F; color: #FFFFFF; font-size: 13px; font-weight: 700">לפני</span><img src="/_blob/a7ba3265e94a95b6b775abb16dee1ed3" alt="כרטיס הטיסה: לפני" style="display: block; width: 358px; height: 362px; box-shadow: 0 0 0 1px #CBD5DF"></div></div></div>
+<div style="width: 780px; height: 506px; box-sizing: border-box; padding: 20px; display: flex; flex-direction: column; gap: 12px; background: #FFFFFF; color: #13233A; font-family: 'IBM Plex Sans Hebrew', system-ui, sans-serif; direction: rtl"><div style="display: flex; flex-direction: column; gap: 4px"><b style="font-family: Karantina, 'Arial Narrow', sans-serif; font-size: 34px; line-height: 1">כרטיס הטיסה</b><span style="font-size: 14px; line-height: 1.45; color: #4B5A6F">הערכים מיושרים לכותרות שלהם (&quot;6H 897&quot; לא נדבק ל-&quot;16:00&quot;), והברקוד של הכרטיס שמאחור לא מציץ</span></div><div style="display: flex; gap: 24px; align-items: flex-start"><div style="display: flex; flex-direction: column; gap: 6px; width: 358px"><span style="align-self: flex-start; padding: 2px 10px; background: #1B8A4C; color: #FFFFFF; font-size: 13px; font-weight: 700">אחרי</span><img src="/_blob/6fafa8dd0afa225218d5cfe15e8b254a" alt="כרטיס הטיסה: אחרי" style="display: block; width: 358px; height: 362px; box-shadow: 0 0 0 1px #CBD5DF"></div><div style="display: flex; flex-direction: column; gap: 6px; width: 358px"><span style="align-self: flex-start; padding: 2px 10px; background: #4B5A6F; color: #FFFFFF; font-size: 13px; font-weight: 700">לפני</span><img src="/_blob/a7ba3265e94a95b6b775abb16dee1ed3" alt="כרטיס הטיסה: לפני" style="display: block; width: 358px; height: 362px; box-shadow: 0 0 0 1px #CBD5DF"></div></div></div>
 </x-dc>
 <script type="text/x-dc" data-dc-script data-props='{"$preview":{"width":780,"height":506}}'>
 class Component extends DCLogic {

diff --git a/design/canvas/project/R16-home-ka.dc.html b/design/canvas/project/R16-home-ka.dc.html
@@ -12,7 +12,7 @@
 body{margin:0;background:#EEF2F5}
 </style>
 </helmet>
-<div style="width: 844px; height: 988px; box-sizing: border-box; padding: 20px; display: flex; flex-direction: column; gap: 12px; background: #FFFFFF; color: #13233A; font-family: 'IBM Plex Sans Hebrew', system-ui, sans-serif; direction: rtl"><div style="display: flex; flex-direction: column; gap: 4px"><b style="font-family: Karantina, 'Arial Narrow', sans-serif; font-size: 34px; line-height: 1">דף הבית בגאורגית</b><span style="font-size: 14px; line-height: 1.45; color: #4B5A6F">השעון לא נופל לתוך שמות הפסגות, וכותרות השלטים לא נוגעות בשורה שמתחתיהן</span></div><div style="display: flex; gap: 24px; align-items: flex-start"><div style="display: flex; flex-direction: column; gap: 6px; width: 390px"><span style="align-self: flex-start; padding: 2px 10px; background: #1B8A4C; color: #FFFFFF; font-size: 13px; font-weight: 700">אחרי</span><img src="/_blob/dfe3f77eee7ad67d30095f2f77fe3119" alt="דף הבית בגאורגית: אחרי" style="display: block; width: 390px; height: 844px; box-shadow: 0 0 0 1px #CBD5DF"></div><div style="display: flex; flex-direction: column; gap: 6px; width: 390px"><span style="align-self: flex-start; padding: 2px 10px; background: #4B5A6F; color: #FFFFFF; font-size: 13px; font-weight: 700">לפני</span><img src="/_blob/f8c31ff1944a0b9fffe156ea2b4040e1" alt="דף הבית בגאורגית: לפני" style="display: block; width: 390px; height: 844px; box-shadow: 0 0 0 1px #CBD5DF"></div></div></div>
+<div style="width: 844px; height: 988px; box-sizing: border-box; padding: 20px; display: flex; flex-direction: column; gap: 12px; background: #FFFFFF; color: #13233A; font-family: 'IBM Plex Sans Hebrew', system-ui, sans-serif; direction: rtl"><div style="display: flex; flex-direction: column; gap: 4px"><b style="font-family: Karantina, 'Arial Narrow', sans-serif; font-size: 34px; line-height: 1">דף הבית בגאורגית</b><span style="font-size: 14px; line-height: 1.45; color: #4B5A6F">השעון לא נופל לתוך שמות הפסגות, וכותרות השלטים לא נוגעות בשורה שמתחתיהן</span></div><div style="display: flex; gap: 24px; align-items: flex-start"><div style="display: flex; flex-direction: column; gap: 6px; width: 390px"><span style="align-self: flex-start; padding: 2px 10px; background: #1B8A4C; color: #FFFFFF; font-size: 13px; font-weight: 700">אחרי</span><img src="/_blob/ca6248e2aac712c6f85e6a6ce23a0de0" alt="דף הבית בגאורגית: אחרי" style="display: block; width: 390px; height: 844px; box-shadow: 0 0 0 1px #CBD5DF"></div><div style="display: flex; flex-direction: column; gap: 6px; width: 390px"><span style="align-self: flex-start; padding: 2px 10px; background: #4B5A6F; color: #FFFFFF; font-size: 13px; font-weight: 700">לפני</span><img src="/_blob/95100d97e9badf743eeb93ddcabe4543" alt="דף הבית בגאורגית: לפני" style="display: block; width: 390px; height: 844px; box-shadow: 0 0 0 1px #CBD5DF"></div></div></div>
 </x-dc>
 <script type="text/x-dc" data-dc-script data-props='{"$preview":{"width":844,"height":988}}'>
 class Component extends DCLogic {

diff --git a/design/canvas/project/R16-meet-map.dc.html b/design/canvas/project/R16-meet-map.dc.html
@@ -12,7 +12,7 @@
 body{margin:0;background:#EEF2F5}
 </style>
 </helmet>
-<div style="width: 844px; height: 584px; box-sizing: border-box; padding: 20px; display: flex; flex-direction: column; gap: 12px; background: #FFFFFF; color: #13233A; font-family: 'IBM Plex Sans Hebrew', system-ui, sans-serif; direction: rtl"><div style="display: flex; flex-direction: column; gap: 4px"><b style="font-family: Karantina, 'Arial Narrow', sans-serif; font-size: 34px; line-height: 1">&quot;כל ההר&quot;</b><span style="font-size: 14px; line-height: 1.45; color: #4B5A6F">כל הסיכות בתוך המפה: העליונה לא נחתכת והתחתונות לא מתחת לפס &quot;איפה נפגשים?&quot;</span></div><div style="display: flex; gap: 24px; align-items: flex-start"><div style="display: flex; flex-direction: column; gap: 6px; width: 390px"><span style="align-self: flex-start; padding: 2px 10px; background: #1B8A4C; color: #FFFFFF; font-size: 13px; font-weight: 700">אחרי</span><img src="/_blob/4a80ab6371f59c2d1d3da9513bb12325" alt="&quot;כל ההר&quot;: אחרי" style="display: block; width: 390px; height: 440px; box-shadow: 0 0 0 1px #CBD5DF"></div><div style="display: flex; flex-direction: column; gap: 6px; width: 390px"><span style="align-self: flex-start; padding: 2px 10px; background: #4B5A6F; color: #FFFFFF; font-size: 13px; font-weight: 700">לפני</span><img src="/_blob/cafe2042d894d1702d67384cb55751d6" alt="&quot;כל ההר&quot;: לפני" style="display: block; width: 390px; height: 440px; box-shadow: 0 0 0 1px #CBD5DF"></div></div></div>
+<div style="width: 844px; height: 584px; box-sizing: border-box; padding: 20px; display: flex; flex-direction: column; gap: 12px; background: #FFFFFF; color: #13233A; font-family: 'IBM Plex Sans Hebrew', system-ui, sans-serif; direction: rtl"><div style="display: flex; flex-direction: column; gap: 4px"><b style="font-family: Karantina, 'Arial Narrow', sans-serif; font-size: 34px; line-height: 1">&quot;כל ההר&quot;</b><span style="font-size: 14px; line-height: 1.45; color: #4B5A6F">כל הסיכות בתוך המפה: העליונה לא נחתכת והתחתונות לא מתחת לפס &quot;איפה נפגשים?&quot;</span></div><div style="display: flex; gap: 24px; align-items: flex-start"><div style="display: flex; flex-direction: column; gap: 6px; width: 390px"><span style="align-self: flex-start; padding: 2px 10px; background: #1B8A4C; color: #FFFFFF; font-size: 13px; font-weight: 700">אחרי</span><img src="/_blob/ea3484b06b80b39bcf592da750c56a49" alt="&quot;כל ההר&quot;: אחרי" style="display: block; width: 390px; height: 440px; box-shadow: 0 0 0 1px #CBD5DF"></div><div style="display: flex; flex-direction: column; gap: 6px; width: 390px"><span style="align-self: flex-start; padding: 2px 10px; background: #4B5A6F; color: #FFFFFF; font-size: 13px; font-weight: 700">לפני</span><img src="/_blob/cafe2042d894d1702d67384cb55751d6" alt="&quot;כל ההר&quot;: לפני" style="display: block; width: 390px; height: 440px; box-shadow: 0 0 0 1px #CBD5DF"></div></div></div>
 </x-dc>
 <script type="text/x-dc" data-dc-script data-props='{"$preview":{"width":844,"height":584}}'>
 class Component extends DCLogic {

diff --git a/design/canvas/project/R16-map-pill.dc.html b/design/canvas/project/R16-map-pill.dc.html
@@ -12,7 +12,7 @@
 body{margin:0;background:#EEF2F5}
 </style>
 </helmet>
-<div style="width: 844px; height: 264px; box-sizing: border-box; padding: 20px; display: flex; flex-direction: column; gap: 12px; background: #FFFFFF; color: #13233A; font-family: 'IBM Plex Sans Hebrew', system-ui, sans-serif; direction: rtl"><div style="display: flex; flex-direction: column; gap: 4px"><b style="font-family: Karantina, 'Arial Narrow', sans-serif; font-size: 34px; line-height: 1">פס המצב בטלפון</b><span style="font-size: 14px; line-height: 1.45; color: #4B5A6F">בשתי שורות במקום &quot;עודכן לפני 12...&quot; חתוך, ולא נוגע בכפתור הזום</span></div><div style="display: flex; gap: 24px; align-items: flex-start"><div style="display: flex; flex-direction: column; gap: 6px; width: 390px"><span style="align-self: flex-start; padding: 2px 10px; background: #1B8A4C; color: #FFFFFF; font-size: 13px; font-weight: 700">אחרי</span><img src="/_blob/6e321c67d50f60dab31a8032190e703a" alt="פס המצב בטלפון: אחרי" style="display: block; width: 390px; height: 120px; box-shadow: 0 0 0 1px #CBD5DF"></div><div style="display: flex; flex-direction: column; gap: 6px; width: 390px"><span style="align-self: flex-start; padding: 2px 10px; background: #4B5A6F; color: #FFFFFF; font-size: 13px; font-weight: 700">לפני</span><img src="/_blob/b49fed3dd12bd864d8f8b213304955e8" alt="פס המצב בטלפון: לפני" style="display: block; width: 390px; height: 120px; box-shadow: 0 0 0 1px #CBD5DF"></div></div></div>
+<div style="width: 844px; height: 264px; box-sizing: border-box; padding: 20px; display: flex; flex-direction: column; gap: 12px; background: #FFFFFF; color: #13233A; font-family: 'IBM Plex Sans Hebrew', system-ui, sans-serif; direction: rtl"><div style="display: flex; flex-direction: column; gap: 4px"><b style="font-family: Karantina, 'Arial Narrow', sans-serif; font-size: 34px; line-height: 1">פס המצב בטלפון</b><span style="font-size: 14px; line-height: 1.45; color: #4B5A6F">בשתי שורות במקום &quot;עודכן לפני 12...&quot; חתוך, ולא נוגע בכפתור הזום</span></div><div style="display: flex; gap: 24px; align-items: flex-start"><div style="display: flex; flex-direction: column; gap: 6px; width: 390px"><span style="align-self: flex-start; padding: 2px 10px; background: #1B8A4C; color: #FFFFFF; font-size: 13px; font-weight: 700">אחרי</span><img src="/_blob/d4116cf6f861f3033c99eaabc02de961" alt="פס המצב בטלפון: אחרי" style="display: block; width: 390px; height: 120px; box-shadow: 0 0 0 1px #CBD5DF"></div><div style="display: flex; flex-direction: column; gap: 6px; width: 390px"><span style="align-self: flex-start; padding: 2px 10px; background: #4B5A6F; color: #FFFFFF; font-size: 13px; font-weight: 700">לפני</span><img src="/_blob/cc045711d24818a4d85fc05575920cf3" alt="פס המצב בטלפון: לפני" style="display: block; width: 390px; height: 120px; box-shadow: 0 0 0 1px #CBD5DF"></div></div></div>
 </x-dc>
 <script type="text/x-dc" data-dc-script data-props='{"$preview":{"width":844,"height":264}}'>
 class Component extends DCLogic {
